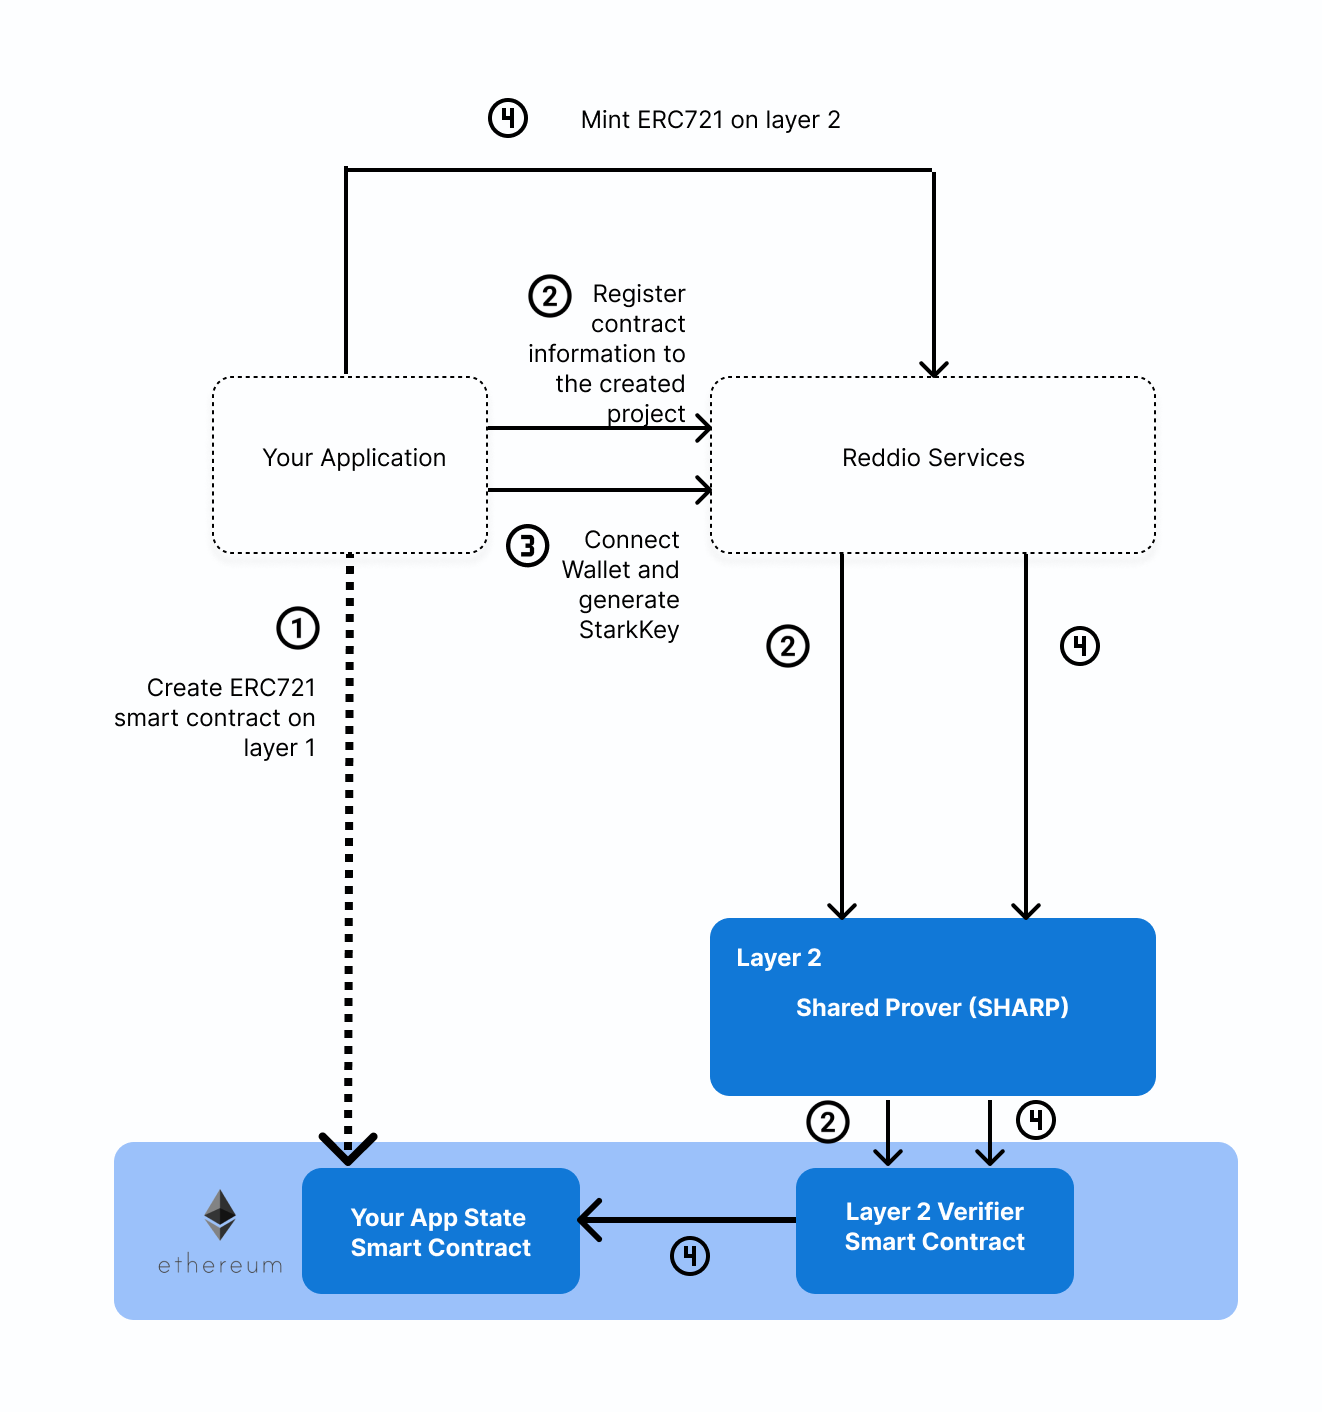
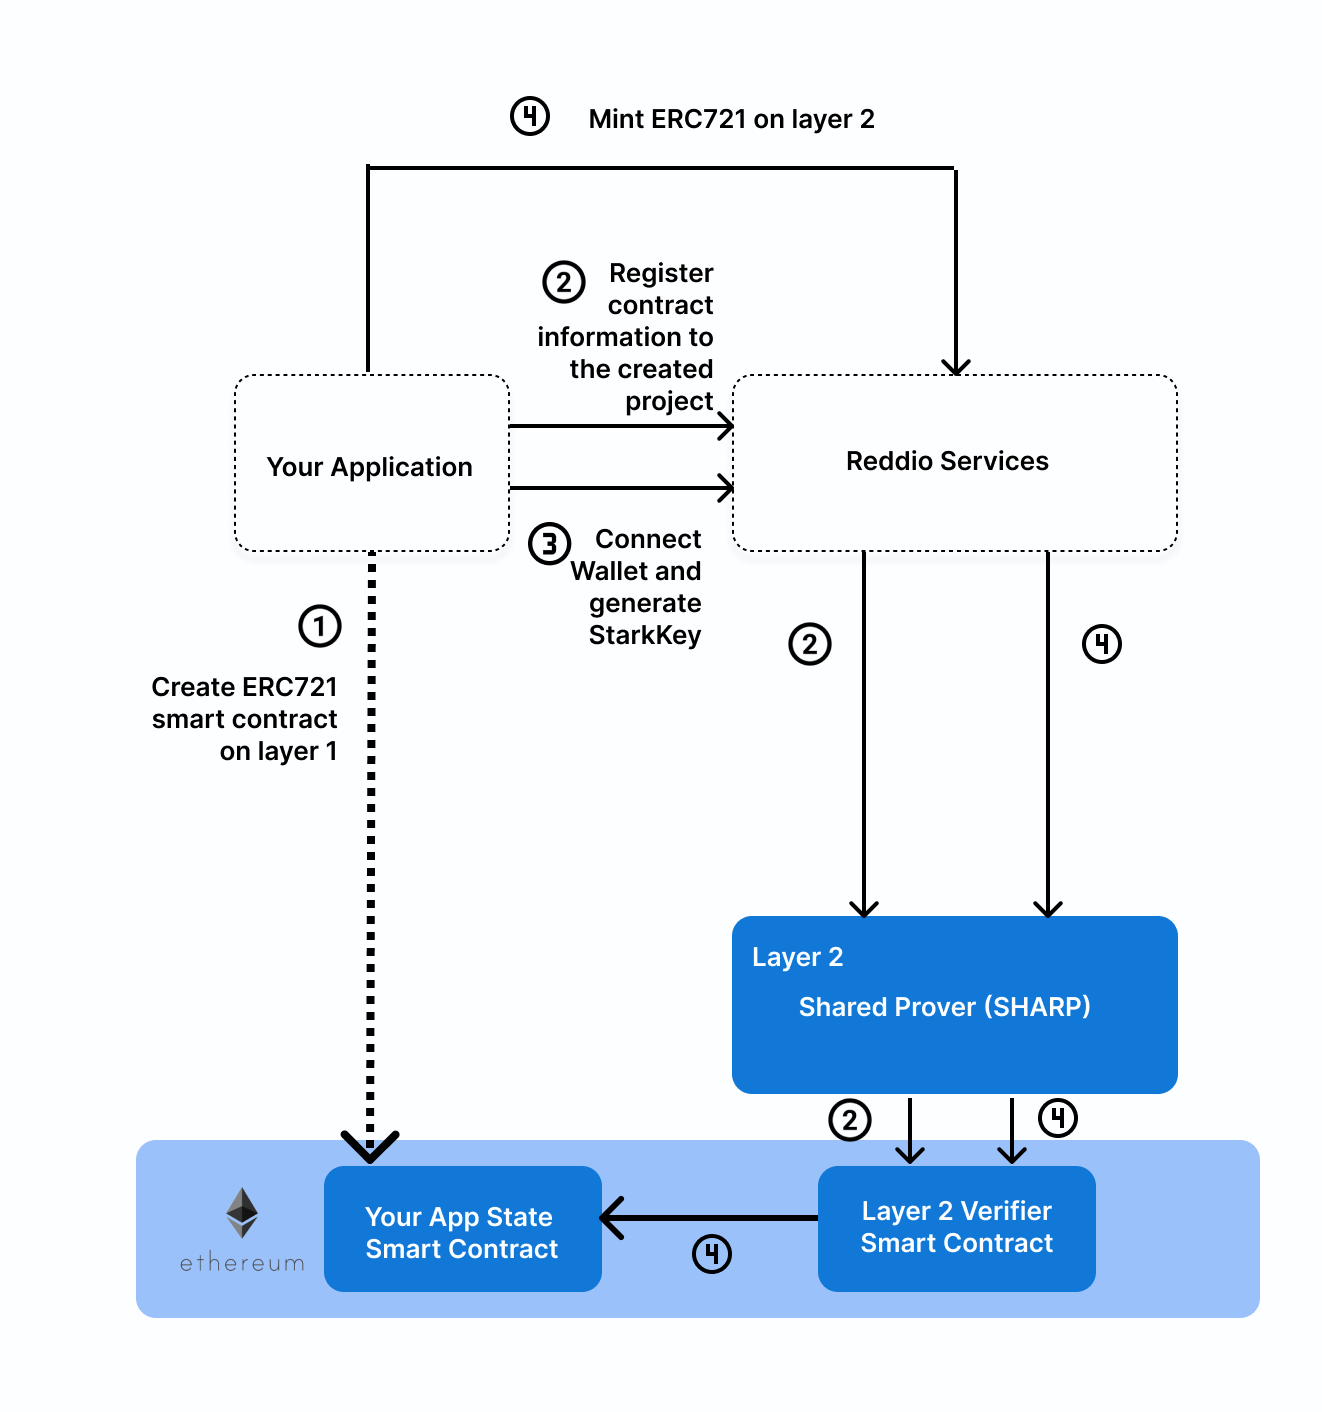
update layer2-nft-jsminting.png to a bigger font and wider display

diff --git a/docs/service/nft-jssdk.md b/docs/service/nft-jssdk.md
@@ -37,7 +37,7 @@ Note:
 ## Quickstart - Mint on layer 2
 
 <p align="center">
-  <img src="/layer2-nft-jsminting.png" alt="layer2 NFT minting" width="300"/>
+  <img src="/layer2-nft-jsminting.png" alt="layer2 NFT minting" width="400"/>
 </p>
 
 1. Create ERC721 smart contract on layer 1 
